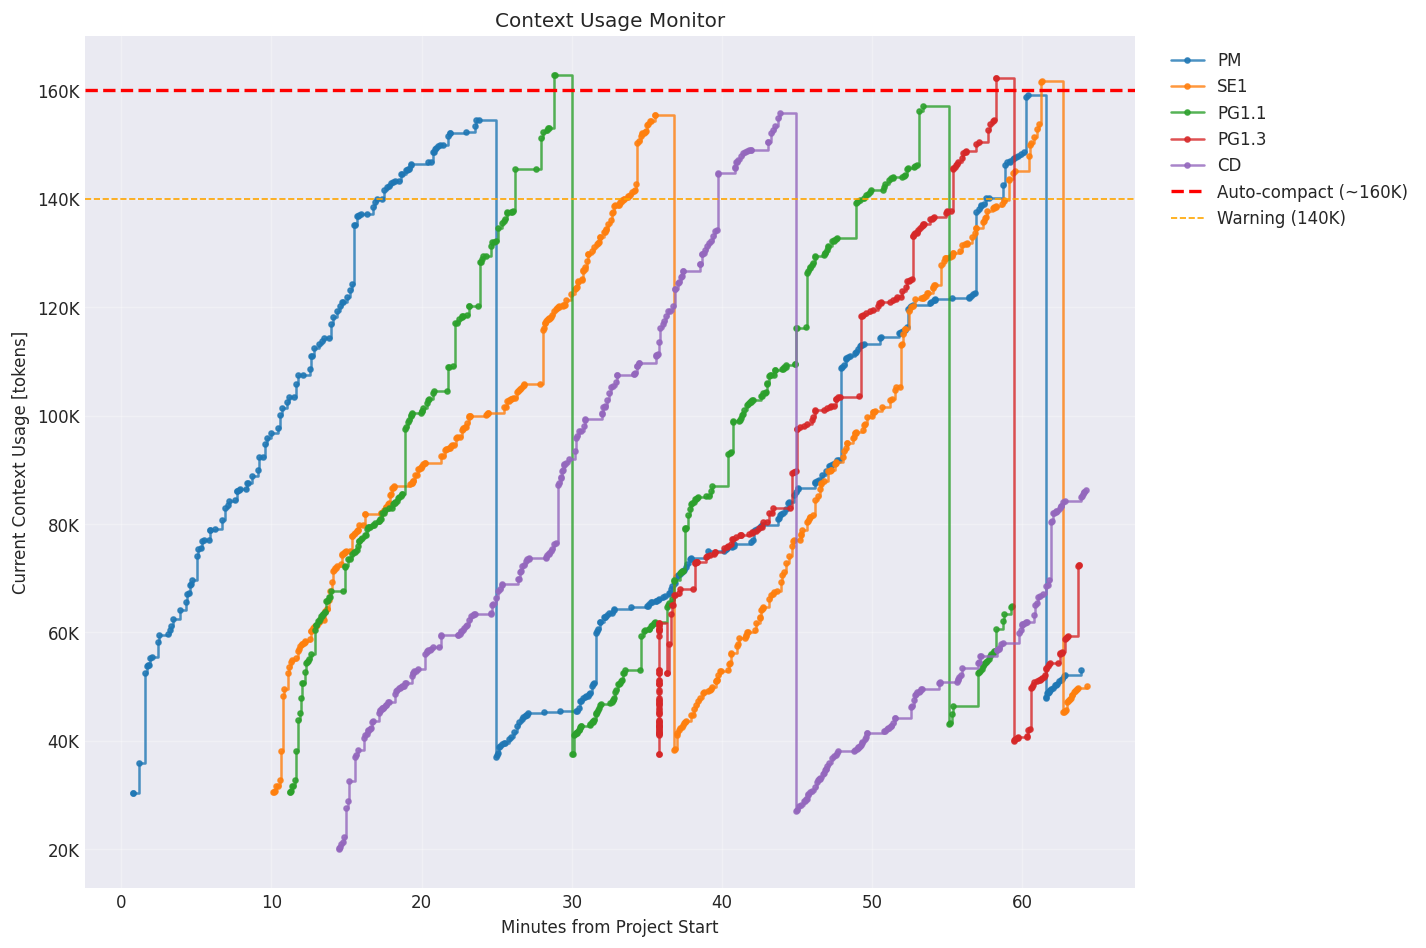
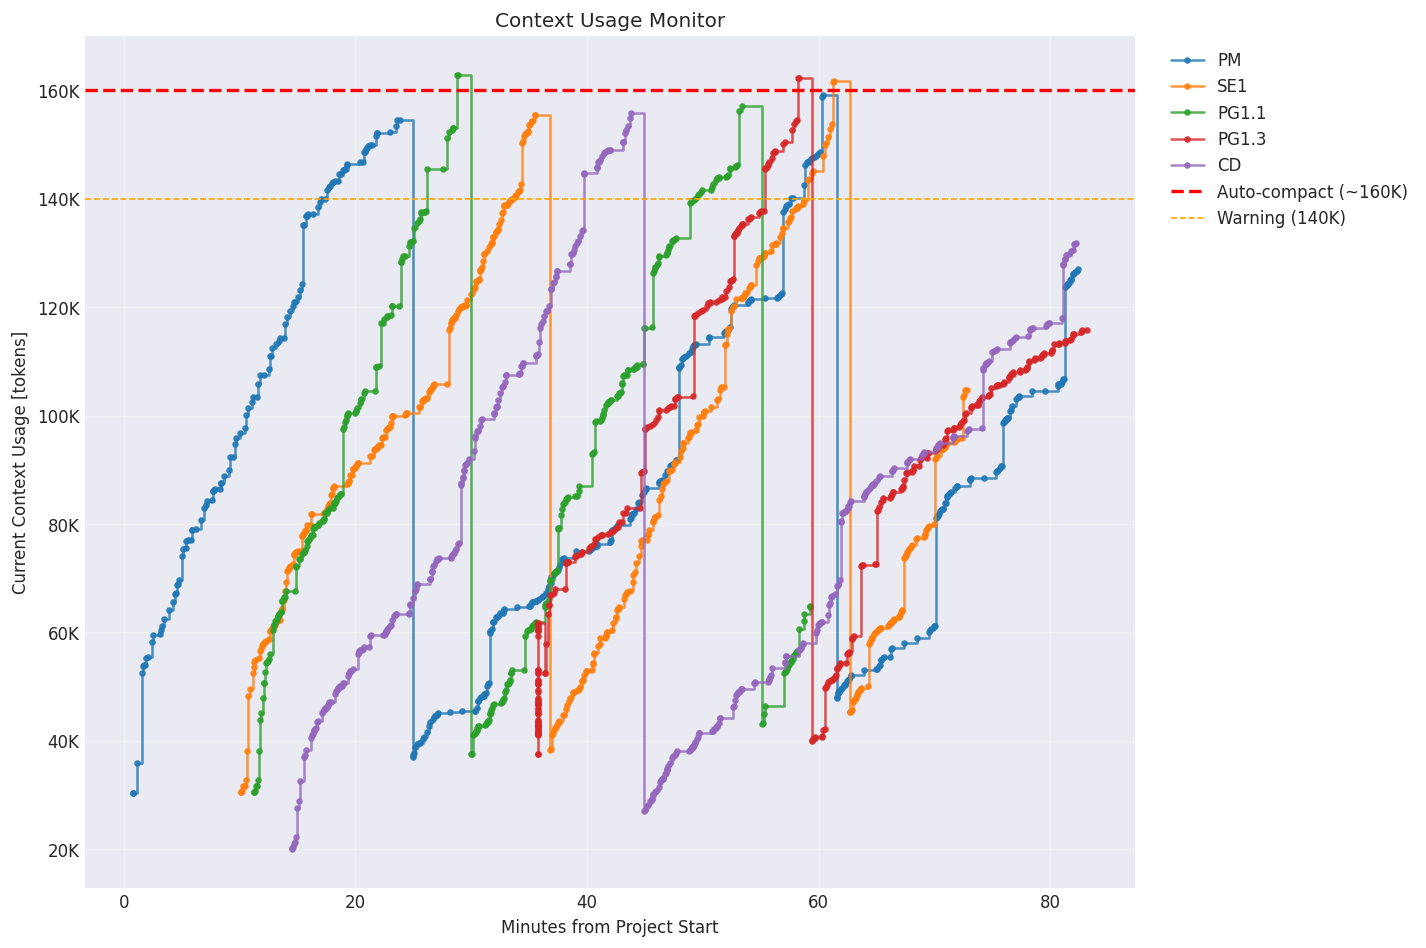
Update context usage visualizations
コンテキスト使用状況（17:22更新）:
- CD: 82.4% (131,887トークン)
- PM: 79.4% (127,076トークン)
- PG1.3: 72.4% (115,845トークン)
- SE1: 65.5% (104,793トークン)
- PG1.1: 40.5% (64,790トークン)

全エージェント正常稼働中

🤖 Generated with [Claude Code](https://claude.ai/code)

diff --git a/User-shared/visualizations/context_usage_report.md b/User-shared/visualizations/context_usage_report.md
@@ -1,16 +1,16 @@
 # コンテキスト使用状況レポート
 
-生成日時: 2025-09-15 17:03:40
+生成日時: 2025-09-15 17:22:36
 
 ## サマリー
 
 | エージェント | 合計 [トークン] | 使用率 | Cache Read | Cache Create | Input | Output | 推定時間 |
 |-------------|----------------|--------|------------|--------------|-------|--------|----------|
-| 🟢 CD | 86,211 | 53.9% | 85,849 | 167 | 0 | 195 | 0.7h |
-| 🟢 PG1.3 | 72,472 | 45.3% | 71,888 | 437 | 0 | 147 | 0.1h |
+| 🟢 CD | 131,887 | 82.4% | 131,571 | 243 | 0 | 73 | 0.1h |
+| 🟢 PM | 127,076 | 79.4% | 126,456 | 538 | 0 | 82 | 0.2h |
+| 🟢 PG1.3 | 115,845 | 72.4% | 115,642 | 108 | 4 | 91 | 0.6h |
+| 🟢 SE1 | 104,793 | 65.5% | 104,513 | 182 | 2 | 96 | 0.1h |
 | 🟢 PG1.1 | 64,790 | 40.5% | 63,446 | 1,340 | 3 | 1 | 0.2h |
-| 🟢 PM | 53,001 | 33.1% | 51,993 | 926 | 2 | 80 | 1.0h |
-| 🟢 SE1 | 50,158 | 31.3% | 49,498 | 559 | 3 | 98 | 0.8h |
 
 ## Visualizations
 
